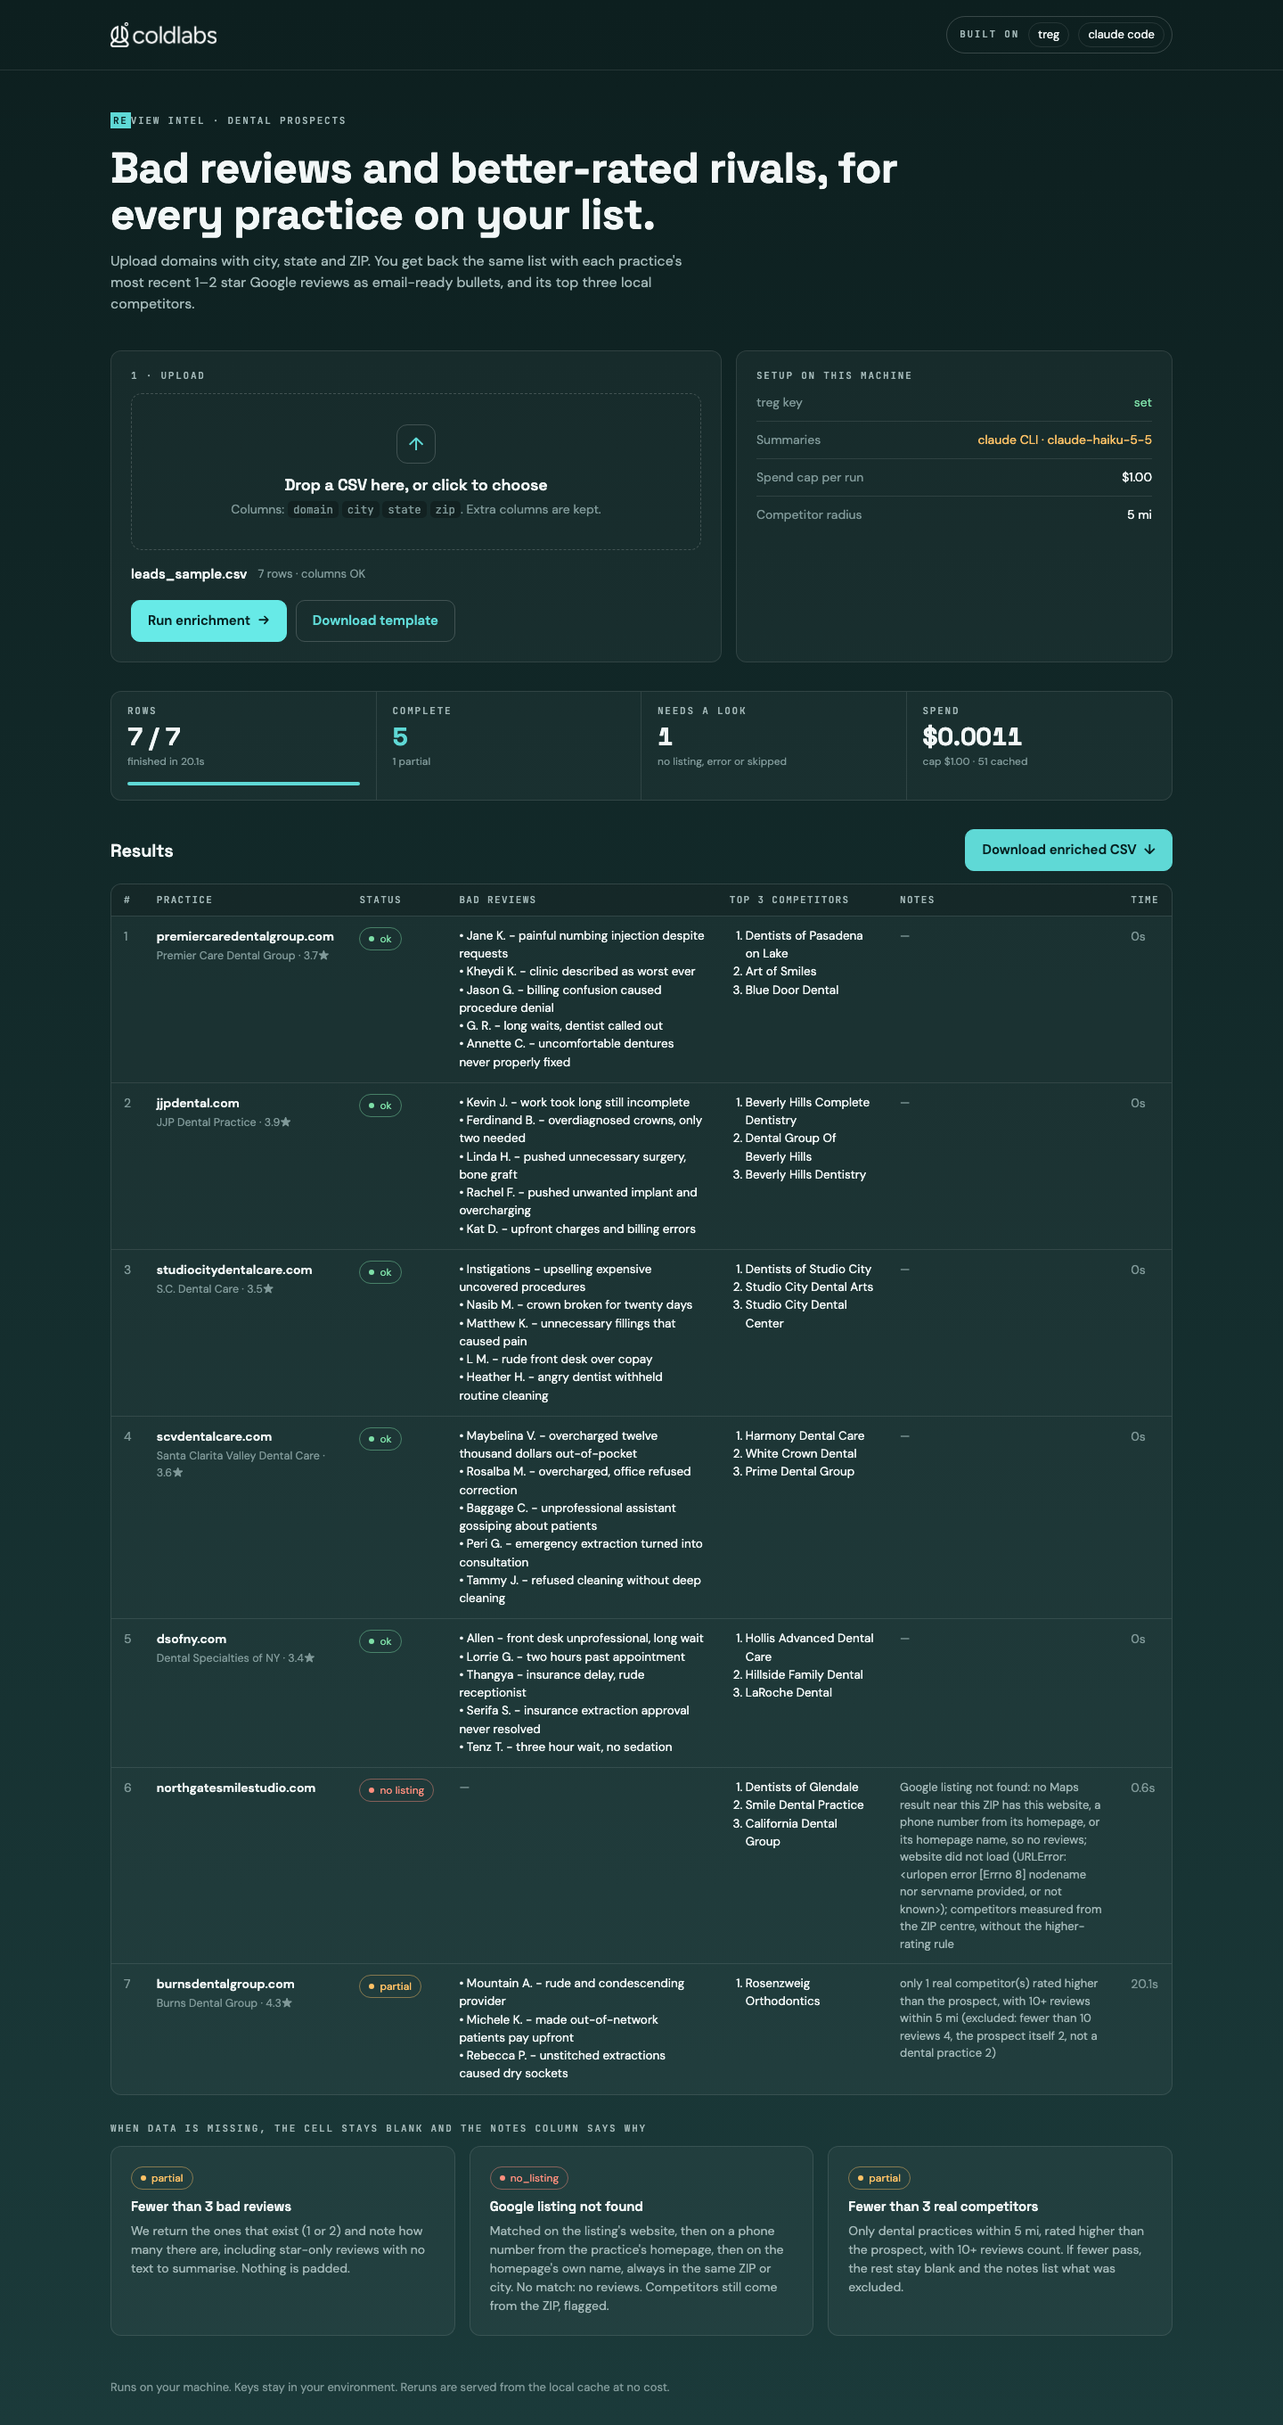
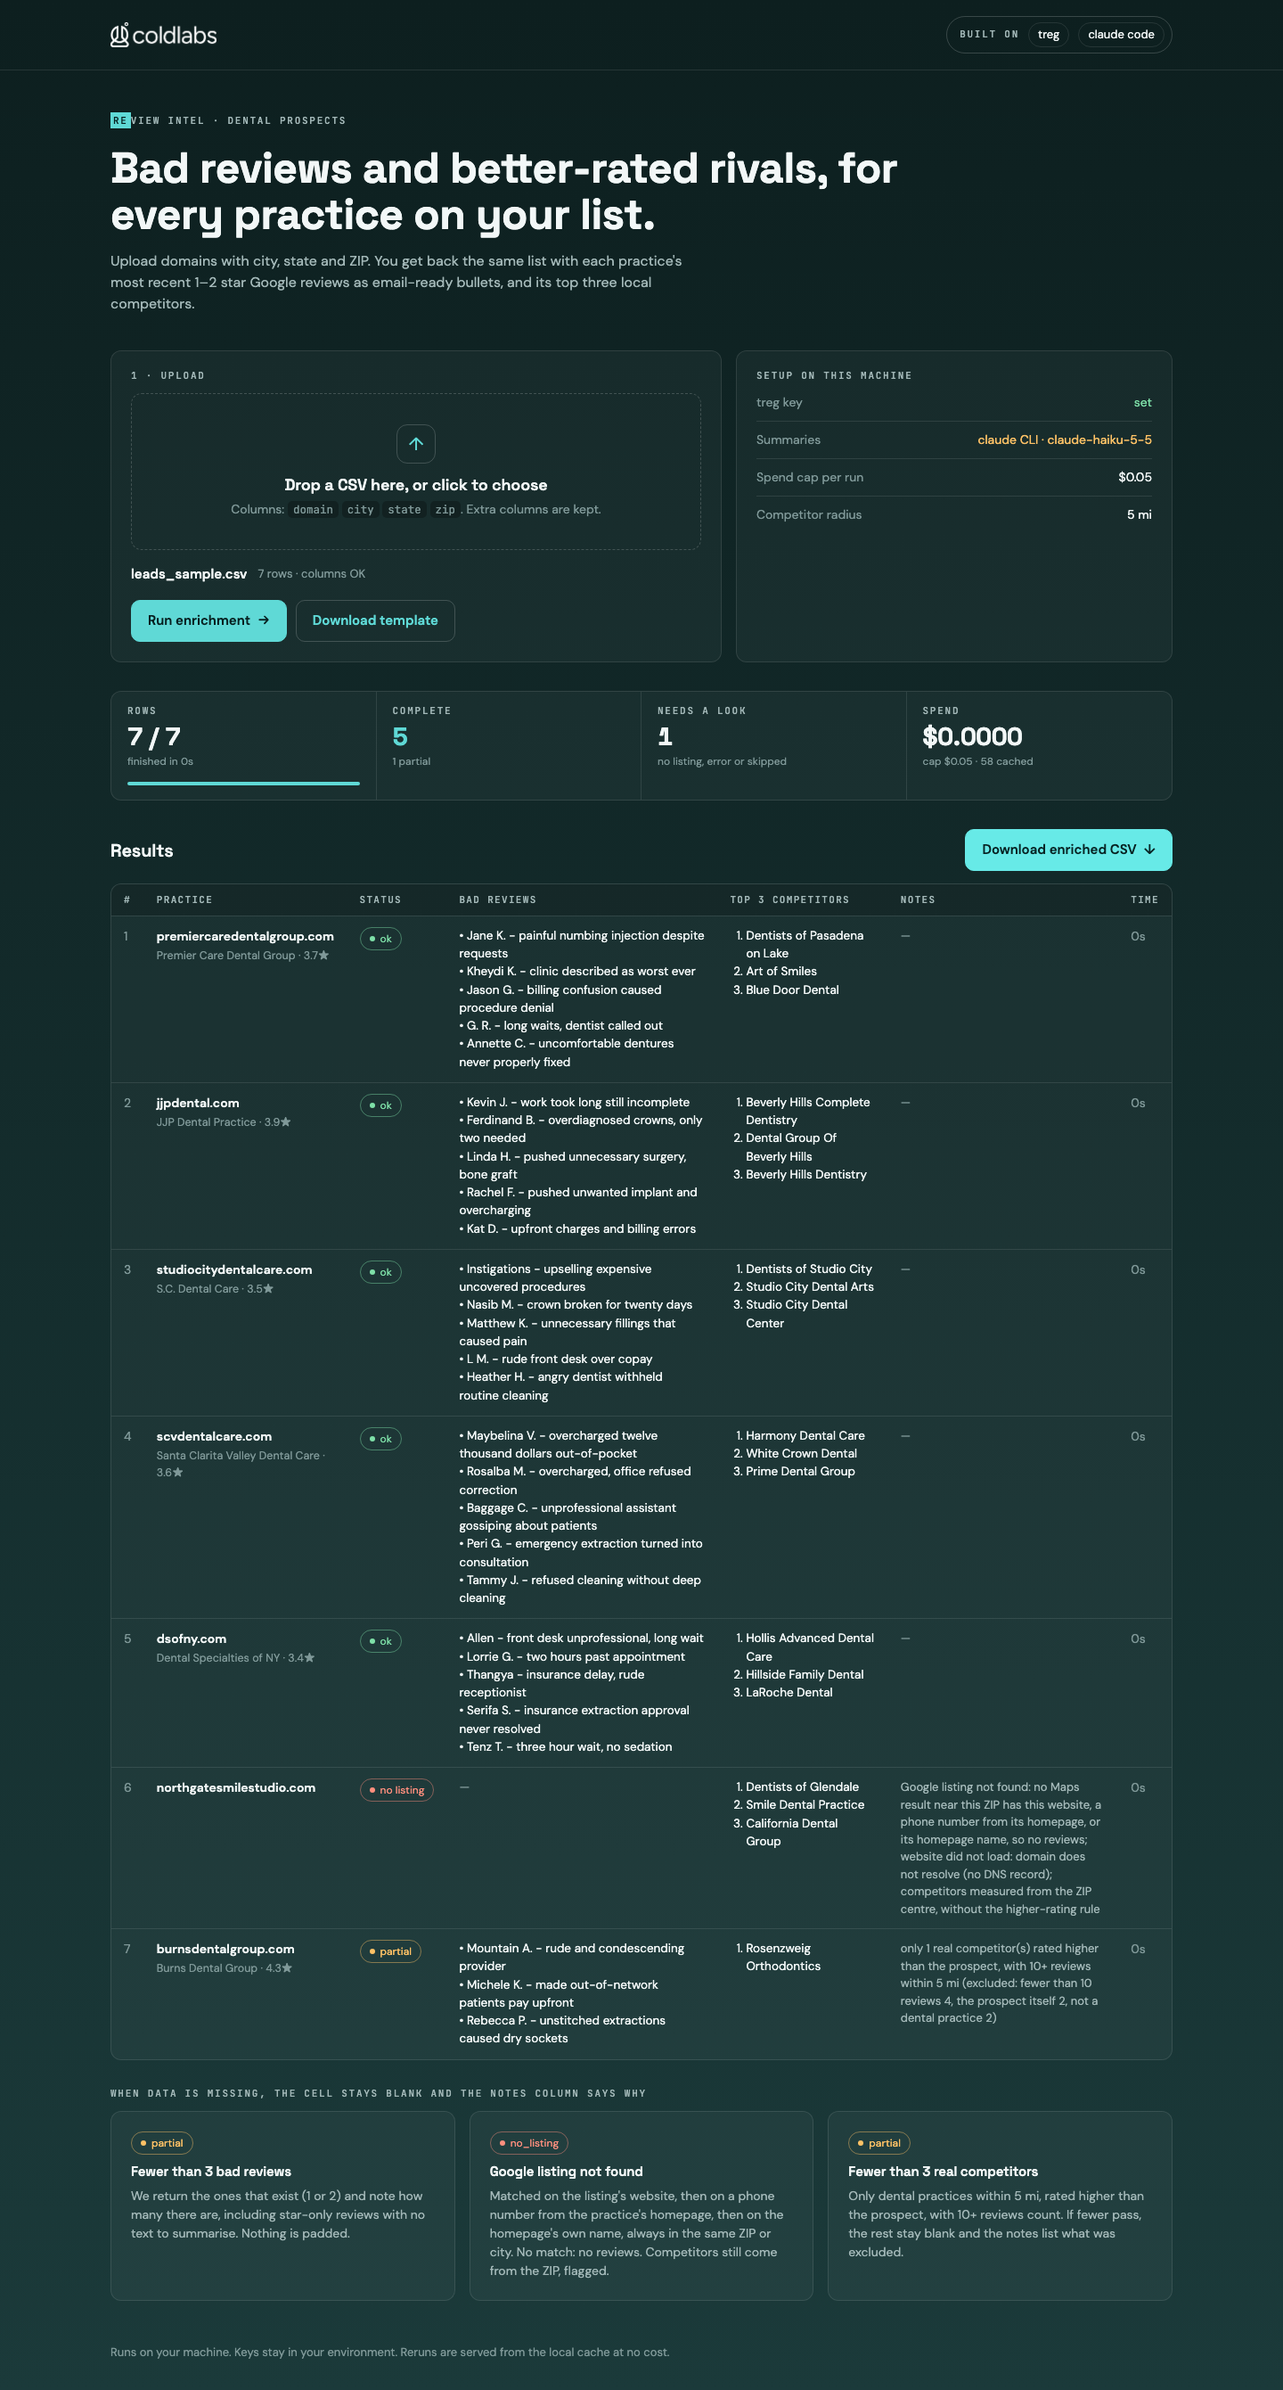
Harden local web app against CSRF and DNS rebinding
Loopback bind; strict Host and Origin checks; per-process token injected into the
page and required on every /api/ call (downloads fetched with the header); JSON-only
POSTs. 27 new tests in tests/test_server_security.py. README documents it.

diff --git a/web/index.html b/web/index.html
@@ -3,6 +3,7 @@
 <head>
 <meta charset="utf-8">
 <meta name="viewport" content="width=device-width, initial-scale=1">
+<meta name="review-intel-token" content="__REVIEW_INTEL_TOKEN__">
 <title>Review Intel · ColdLabs</title>
 <link rel="preconnect" href="https://fonts.googleapis.com">
 <link rel="preconnect" href="https://fonts.gstatic.com" crossorigin>
@@ -214,12 +215,14 @@
 
 <script>
 const $ = (id) => document.getElementById(id);
+const TOKEN = document.querySelector('meta[name="review-intel-token"]').content;
+const api = (url, opts = {}) => fetch(url, { ...opts, headers: { ...(opts.headers || {}), "X-Review-Intel-Token": TOKEN } });
 let csvText = "", fileName = "", jobId = null, timer = null;
 const REQUIRED = { domain: ["domain","website","url","site","root_domain","company_domain"], city: ["city","town"],
   state: ["state","st","state_code","region"], zip: ["zip","zipcode","zip_code","postal_code","postcode","postal"] };
 const esc = (s) => String(s ?? "").replace(/[&<>"']/g, c => ({"&":"&amp;","<":"&lt;",">":"&gt;",'"':"&quot;","'":"&#39;"}[c]));
 
-fetch("/api/health").then(r => r.json()).then(h => {
+api("/api/health").then(r => r.json()).then(h => {
   $("h-treg").innerHTML = h.treg_key ? '<span class="ok">set</span>' : '<span class="no">missing</span>';
   $("h-llm").innerHTML = h.llm_backend === "anthropic" ? `<span class="ok">Anthropic API · ${esc(h.model)}</span>`
     : h.llm_backend === "claude-cli" ? `<span class="meh">claude CLI · ${esc(h.model)}</span>` : '<span class="no">none</span>';
@@ -271,7 +274,7 @@ drop.addEventListener("drop", e => setFile(e.dataTransfer.files[0]));
 
 $("run").addEventListener("click", async () => {
   $("run").disabled = true; $("err").hidden = true;
-  const r = await fetch("/api/jobs", { method: "POST", headers: { "Content-Type": "application/json" }, body: JSON.stringify({ filename: fileName, csv: csvText }) });
+  const r = await api("/api/jobs", { method: "POST", headers: { "Content-Type": "application/json" }, body: JSON.stringify({ filename: fileName, csv: csvText }) });
   const d = await r.json();
   if (!r.ok) { showErr(d.error || "Could not start the run."); $("run").disabled = false; return; }
   jobId = d.id;
@@ -283,7 +286,7 @@ $("run").addEventListener("click", async () => {
 const STAGE = { queued: "queued", listing: "finding listing", reviews: "reading reviews", summaries: "summarising", competitors: "competitors" };
 async function poll() {
   clearTimeout(timer);
-  const r = await fetch(`/api/jobs/${jobId}`); const d = await r.json(); const s = d.summary;
+  const r = await api(`/api/jobs/${jobId}`); const d = await r.json(); const s = d.summary;
   const c = s.status_counts || {};
   $("s-rows").textContent = `${s.done} / ${s.rows}`;
   $("s-state").textContent = s.state === "done" ? `finished in ${s.seconds}s` : `running · ${s.seconds}s`;
@@ -305,12 +308,25 @@ async function poll() {
       <td class="num">${r.seconds != null ? r.seconds + "s" : ""}</td></tr>`;
   }).join("");
   if (s.state === "done") {
-    const a = $("download"); a.href = `/api/jobs/${jobId}/csv`; a.setAttribute("aria-disabled", "false"); a.classList.add("primary");
+    const a = $("download"); a.dataset.job = jobId; a.setAttribute("aria-disabled", "false"); a.classList.add("primary");
     $("run").disabled = false;
     if (s.fatal) showErr(s.fatal);
   } else timer = setTimeout(poll, 800);
 }
-$("download").addEventListener("click", e => { if ($("download").getAttribute("aria-disabled") === "true") e.preventDefault(); });
+// The CSV is fetched with the token header (a plain link cannot send one), then saved from a blob.
+$("download").addEventListener("click", async e => {
+  e.preventDefault();
+  const a = $("download");
+  if (a.getAttribute("aria-disabled") === "true" || !a.dataset.job) return;
+  const r = await api(`/api/jobs/${a.dataset.job}/csv`);
+  if (!r.ok) { showErr("Download failed."); return; }
+  const blob = await r.blob();
+  const name = (fileName.replace(/\.csv$/i, "") || "leads") + "_enriched.csv";
+  const url = URL.createObjectURL(blob);
+  const tmp = Object.assign(document.createElement("a"), { href: url, download: name });
+  document.body.appendChild(tmp); tmp.click(); tmp.remove();
+  setTimeout(() => URL.revokeObjectURL(url), 1000);
+});
 </script>
 </body>
 </html>

diff --git a/tests/test_server_security.py b/tests/test_server_security.py
@@ -1,0 +1,106 @@
+"""The local web app must not be usable by other websites open in the same browser:
+Host check (DNS rebinding), Origin check (cross-site requests), per-process token on every /api/ call,
+JSON-only POSTs. Runs a real server on an ephemeral 127.0.0.1 port; no paid calls are made."""
+from __future__ import annotations
+
+import http.client
+import json
+import threading
+from http.server import ThreadingHTTPServer
+
+import pytest
+
+from review_intel import server
+
+
+@pytest.fixture(scope="module")
+def srv():
+    httpd = ThreadingHTTPServer(("127.0.0.1", 0), server.Handler)
+    t = threading.Thread(target=httpd.serve_forever, daemon=True)
+    t.start()
+    yield httpd.server_address[1]
+    httpd.shutdown()
+
+
+def req(port, method, path, *, host=None, headers=None, body=None):
+    c = http.client.HTTPConnection("127.0.0.1", port, timeout=10)
+    h = {"Host": host or f"127.0.0.1:{port}"}
+    h.update(headers or {})
+    c.request(method, path, body=body, headers=h)
+    r = c.getresponse()
+    data = r.read()
+    c.close()
+    return r.status, data
+
+
+def tok():
+    return {server.TOKEN_HEADER: server.TOKEN}
+
+
+def test_binds_loopback_only():
+    import inspect
+    assert '("127.0.0.1", port)' in inspect.getsource(server.serve)
+
+
+def test_index_served_with_token_on_good_host(srv):
+    status, body = req(srv, "GET", "/")
+    assert status == 200 and server.TOKEN.encode() in body
+    status, body = req(srv, "GET", "/", host=f"localhost:{srv}")
+    assert status == 200
+
+
+@pytest.mark.parametrize("bad_host", ["evil.example.com", "evil.example.com:{p}", "127.0.0.1", "127.0.0.1:1",
+                                      "0.0.0.0:{p}", "localhost.evil.com:{p}"])
+def test_bad_host_rejected_everywhere(srv, bad_host):
+    h = bad_host.format(p=srv)
+    for path in ("/", "/api/health", "/template.csv"):
+        status, body = req(srv, "GET", path, host=h, headers=tok())
+        assert status == 403, (path, h)
+        assert server.TOKEN.encode() not in body  # a rebinding page must never read the token
+
+
+@pytest.mark.parametrize("origin", ["https://evil.example.com", "null", "http://localhost:1"])
+def test_foreign_origin_rejected(srv, origin):
+    status, _ = req(srv, "GET", "/api/health", headers={**tok(), "Origin": origin})
+    assert status == 403
+    status, _ = req(srv, "POST", "/api/jobs", headers={**tok(), "Origin": origin, "Content-Type": "application/json"},
+                    body=b"{}")
+    assert status == 403
+
+
+def test_own_origin_allowed(srv):
+    status, _ = req(srv, "GET", "/api/health", headers={**tok(), "Origin": f"http://127.0.0.1:{srv}"})
+    assert status == 200
+
+
+@pytest.mark.parametrize("path", ["/api/health", "/api/jobs/abc", "/api/jobs/abc/csv"])
+@pytest.mark.parametrize("headers", [{}, {server.TOKEN_HEADER: "wrong"}, {server.TOKEN_HEADER: ""}])
+def test_api_get_requires_token(srv, path, headers):
+    status, _ = req(srv, "GET", path, headers=headers)
+    assert status == 403
+
+
+def test_api_post_requires_token(srv):
+    body = json.dumps({"filename": "x.csv", "csv": "domain,city,state,zip\nx.com,A,TX,78701\n"}).encode()
+    status, _ = req(srv, "POST", "/api/jobs", headers={"Content-Type": "application/json"}, body=body)
+    assert status == 403
+
+
+@pytest.mark.parametrize("ctype", [None, "text/plain", "application/x-www-form-urlencoded", "multipart/form-data"])
+def test_post_requires_json_content_type(srv, ctype):
+    headers = dict(tok())
+    if ctype:
+        headers["Content-Type"] = ctype
+    status, _ = req(srv, "POST", "/api/jobs", headers=headers, body=b'{"csv": ""}')
+    assert status == 415
+
+
+def test_valid_request_reaches_handler(srv):
+    status, body = req(srv, "GET", "/api/health", headers=tok())
+    assert status == 200 and "treg_key" in json.loads(body)
+    # a well-formed, authorised POST gets past the guards to input validation (no job is started)
+    status, body = req(srv, "POST", "/api/jobs", headers={**tok(), "Content-Type": "application/json; charset=utf-8"},
+                       body=json.dumps({"filename": "x.csv", "csv": "domain,city\nx.com,Austin\n"}).encode())
+    assert status == 400 and "Missing column" in json.loads(body)["error"]
+    status, _ = req(srv, "GET", "/api/jobs/nope/csv", headers=tok())
+    assert status == 404

diff --git a/review_intel/server.py b/review_intel/server.py
@@ -1,5 +1,13 @@
 """Local web app: stdlib ThreadingHTTPServer bound to 127.0.0.1 only.
 
+Hardening (any web page open in the same browser must not be able to start paid runs or read results):
+  * binds 127.0.0.1 only
+  * every request: Host must be exactly 127.0.0.1:<port> or localhost:<port> (blocks DNS rebinding)
+  * every request with an Origin header: it must be this server's own origin (blocks cross-site POSTs)
+  * every /api/ request (GET and POST, downloads included): header X-Review-Intel-Token must equal a
+    per-process secrets.token_urlsafe(32) token, which is only injected into the served index.html
+  * POST must be Content-Type: application/json (a cross-site HTML form cannot send that)
+
 GET  /                      the page (web/index.html)
 GET  /assets/<file>         static assets
 GET  /template.csv          input template
@@ -10,8 +18,10 @@ GET  /api/jobs/<id>/csv     enriched CSV download
 """
 from __future__ import annotations
 
+import hmac
 import json
 import mimetypes
+import secrets
 import socket
 import threading
 import uuid
@@ -25,6 +35,9 @@ from .summarize import backend
 
 JOBS: dict[str, Job] = {}
 MAX_UPLOAD = 5 * 1024 * 1024
+TOKEN = secrets.token_urlsafe(32)  # new every process start; never written to disk
+TOKEN_HEADER = "X-Review-Intel-Token"
+TOKEN_PLACEHOLDER = "__REVIEW_INTEL_TOKEN__"
 
 
 class Handler(BaseHTTPRequestHandler):
@@ -47,10 +60,41 @@ class Handler(BaseHTTPRequestHandler):
     def _json(self, code: int, obj):
         self._send(code, json.dumps(obj).encode(), "application/json")
 
+    # ---------- request guards ----------
+
+    def _guard(self, path: str, post: bool = False) -> bool:
+        """True if the request may proceed; otherwise the error response has already been sent."""
+        port = self.server.server_address[1]
+        host = (self.headers.get("Host") or "").strip().lower()
+        allowed_hosts = {f"127.0.0.1:{port}", f"localhost:{port}"}
+        if host not in allowed_hosts:
+            self._json(403, {"error": "forbidden host"})
+            return False
+        origin = self.headers.get("Origin")
+        if origin is not None and origin.strip().lower() != f"http://{host}":
+            self._json(403, {"error": "forbidden origin"})
+            return False
+        if path.startswith("/api/"):
+            sent = self.headers.get(TOKEN_HEADER) or ""
+            if not hmac.compare_digest(sent.encode(), TOKEN.encode()):
+                self._json(403, {"error": "missing or bad token"})
+                return False
+        if post:
+            ctype = (self.headers.get("Content-Type") or "").split(";", 1)[0].strip().lower()
+            if ctype != "application/json":
+                self._json(415, {"error": "Content-Type must be application/json"})
+                return False
+        return True
+
     def do_GET(self):
         path = self.path.split("?", 1)[0]
+        if not self._guard(path):
+            return
         if path in ("/", "/index.html"):
-            return self._send(200, (WEB / "index.html").read_bytes(), "text/html; charset=utf-8")
+            page = (WEB / "index.html").read_text(encoding="utf-8").replace(TOKEN_PLACEHOLDER, TOKEN)
+            return self._send(200, page.encode("utf-8"), "text/html; charset=utf-8",
+                              {"Referrer-Policy": "no-referrer", "X-Frame-Options": "DENY",
+                               "Content-Security-Policy": "frame-ancestors 'none'"})
         if path.startswith("/assets/"):
             f = (WEB / "assets" / Path(path).name)
             if f.is_file():
@@ -77,7 +121,10 @@ class Handler(BaseHTTPRequestHandler):
         return self._send(404, b"not found", "text/plain")
 
     def do_POST(self):
-        if self.path != "/api/jobs":
+        path = self.path.split("?", 1)[0]
+        if not self._guard(path, post=True):
+            return
+        if path != "/api/jobs":
             return self._json(404, {"error": "not found"})
         n = int(self.headers.get("Content-Length") or 0)
         if n > MAX_UPLOAD:

diff --git a/README.md b/README.md
@@ -83,6 +83,18 @@ Speed and cost controls:
 - **Spend cap:** each paid call checks `REVIEW_INTEL_MAX_USD` first. treg's real per-call charge (`X-Treg-Cost-Micro`) and the LLM token cost are counted. At the cap the remaining rows get `skipped_budget`, so a bad file cannot run up a bill. Spend is shown live on the page and in the run summary.
 - **Auth errors** (bad key, empty balance) stop the run at once instead of failing every row.
 
+## Web app security
+
+The web app runs on your machine and spends your API credits, so other websites open in the same browser must not be able to use it. It:
+
+- listens on `127.0.0.1` only, never on the network;
+- answers only when the `Host` header is exactly `127.0.0.1:<port>` or `localhost:<port>`, which blocks DNS-rebinding pages;
+- rejects any request whose `Origin` header is not the app's own origin;
+- creates a fresh random token at every start (`secrets.token_urlsafe(32)`), puts it only in the page it serves, and requires it in an `X-Review-Intel-Token` header on every `/api/` call, downloads included. Another site cannot read the page, so it cannot learn the token;
+- accepts POSTs only as `Content-Type: application/json`, which a cross-site HTML form cannot send.
+
+Each rejection path has a test in `tests/test_server_security.py`.
+
 ## Tool choices
 
 All data calls go to the treg REST API: `POST/GET https://treg.to/call/<tool-id>` with the header `X-Treg-Token: $TREG_API_KEY`. The body is the provider's own JSON, and `X-Treg-Cost-Micro` is the charge. `Authorization: Bearer` is not accepted on `/call` (it returns 401).
@@ -115,7 +127,7 @@ Test runs on 13 Nov 2026, cold cache, 8 workers:
 python3 -m pytest -q
 ```
 
-The tests cover name cleaning, reviewer-name formatting, domain parsing, listing matching (domain, phone, name, generic-name refusal), review selection, every competitor rule, CSV parsing, the spend cap, and the three edge cases end to end against a fake treg. They need no network and spend nothing.
+The tests cover name cleaning, reviewer-name formatting, domain parsing, listing matching (domain, phone, name, generic-name refusal), review selection, every competitor rule, CSV parsing, the spend cap, and the three edge cases end to end against a fake treg. They also cover every web-app security check above. They need no network and spend nothing.
 
 ## Files
 
@@ -130,7 +142,7 @@ review_intel/
   summarize.py    Anthropic API / claude CLI summaries
   http.py         treg client, retries, cache, spend meter
   website.py      root domains, homepage name/phones
-  server.py       local web app (127.0.0.1 only)
+  server.py       local web app (127.0.0.1 only; host, origin, token and content-type checks)
 web/index.html    the page
 docs/screenshots/ the page at 1440px and 390px
 sample/           leads_sample.csv, the 12-row test, the 60-row test
